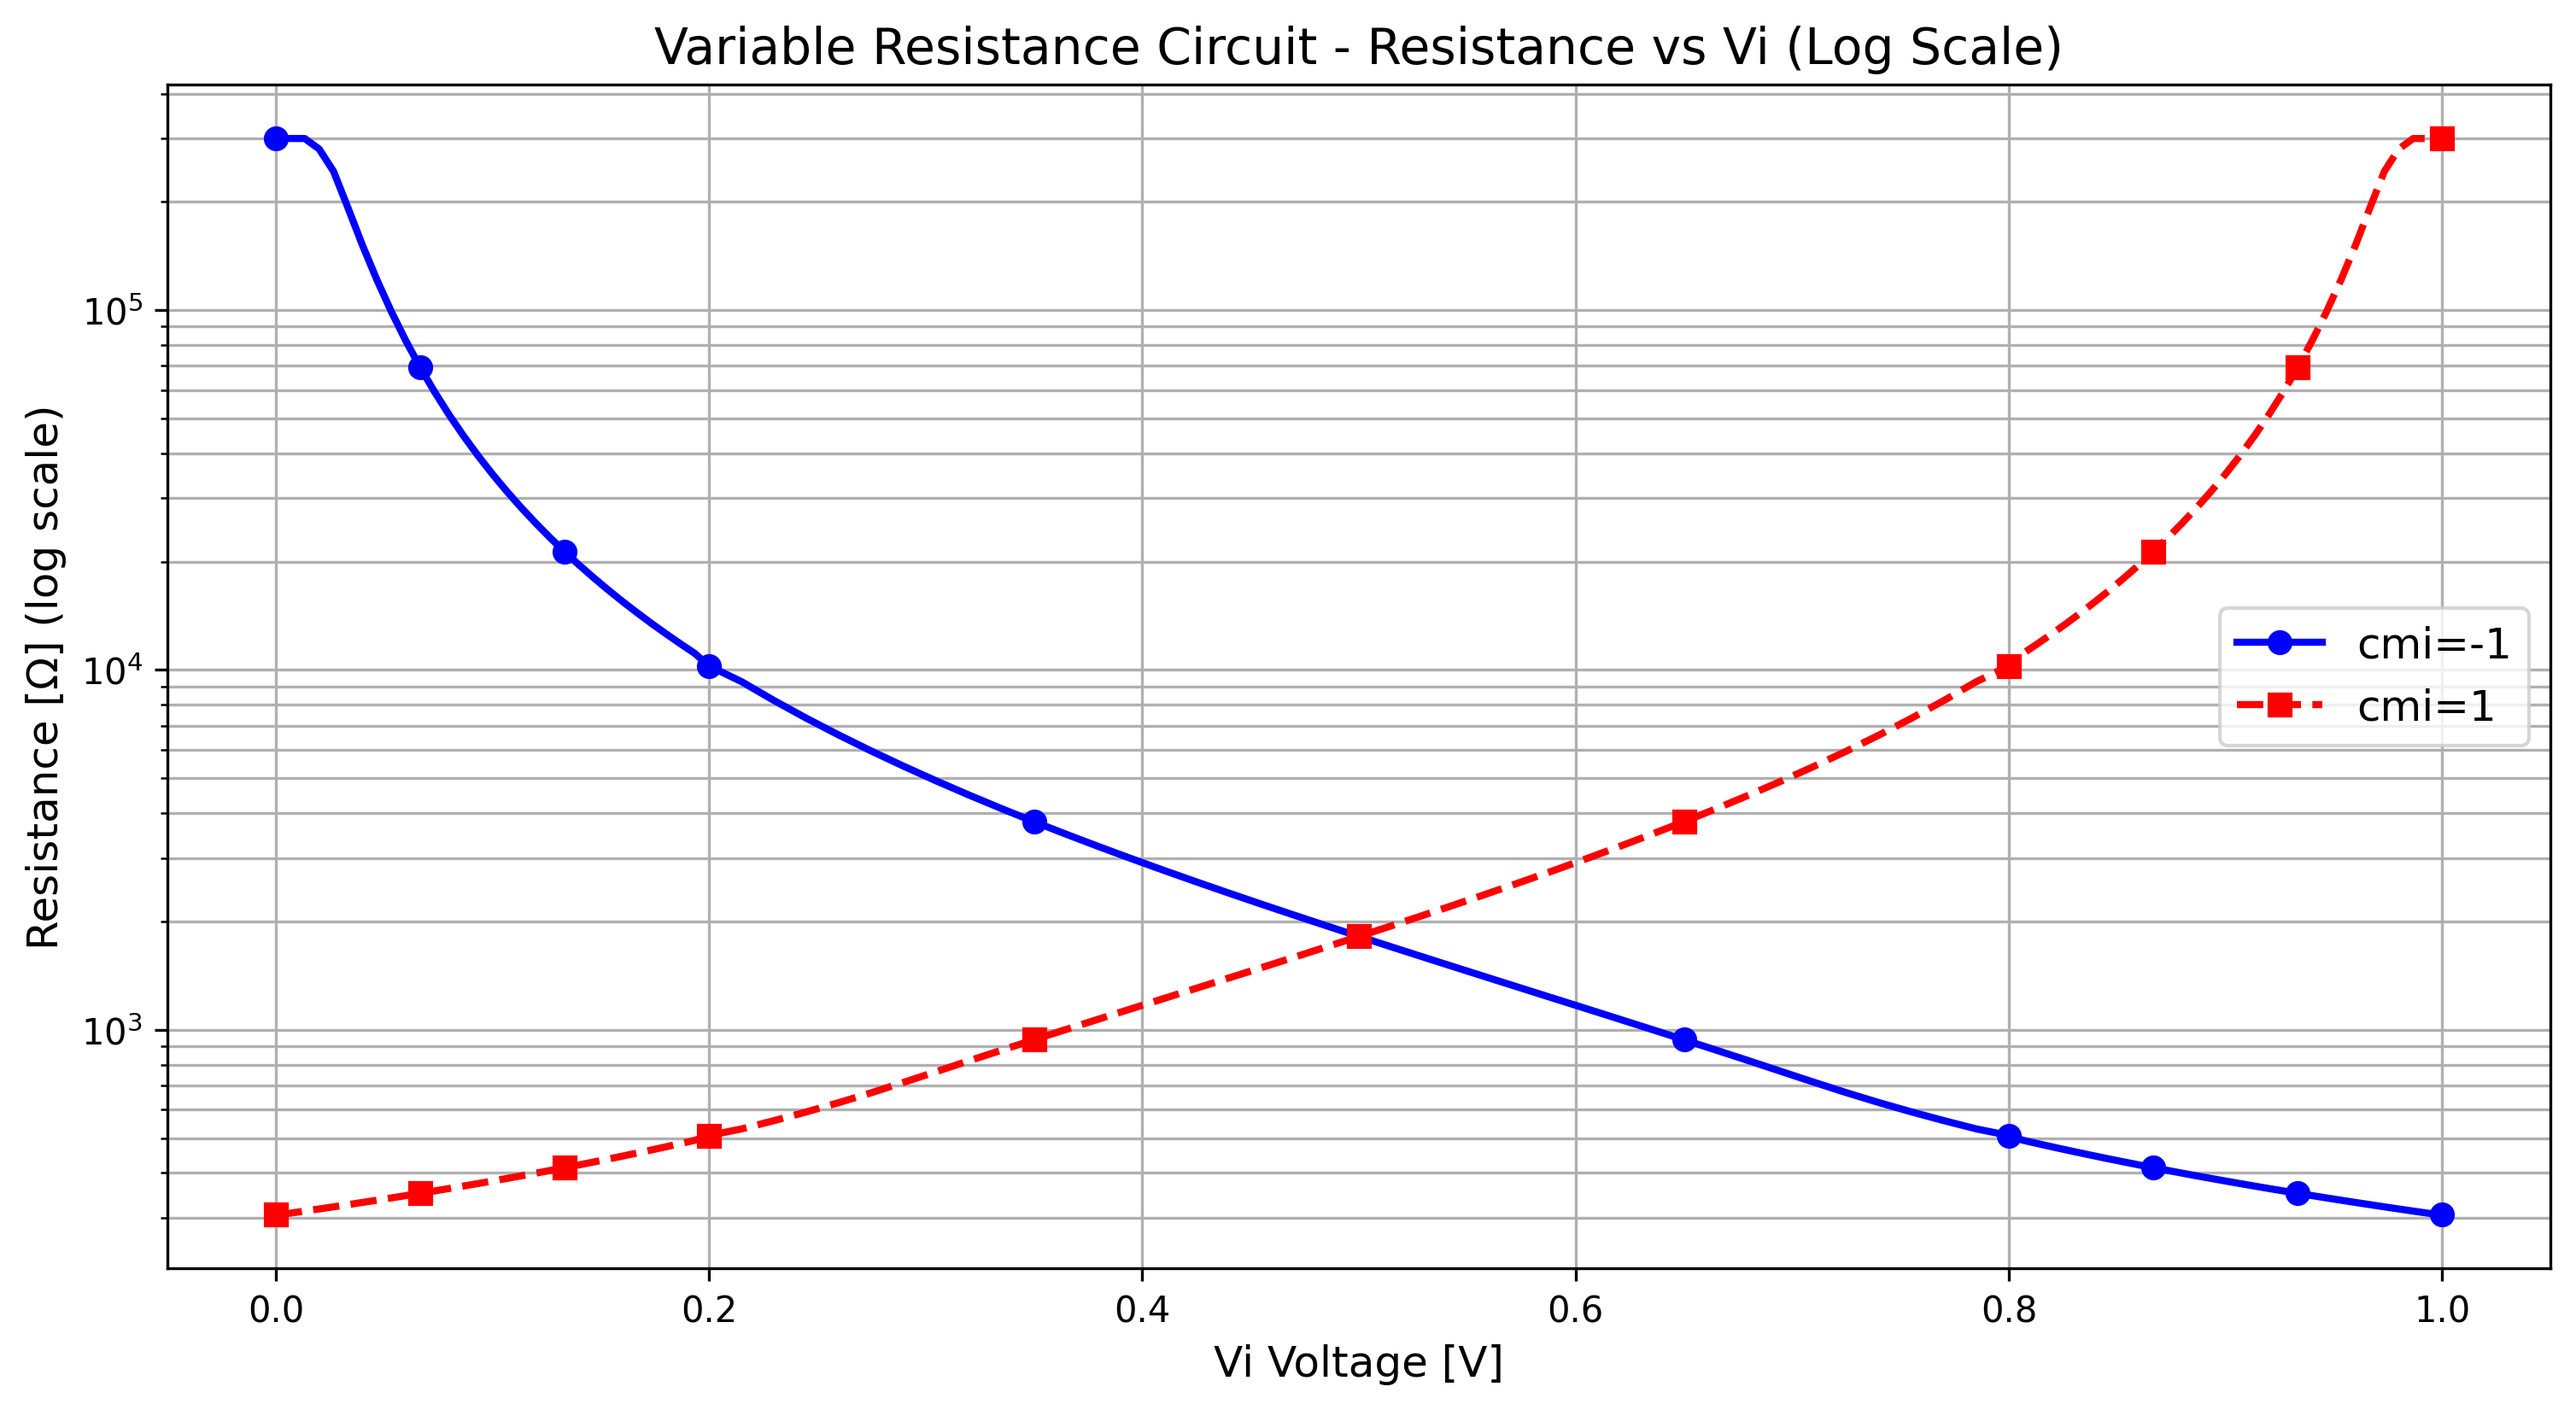
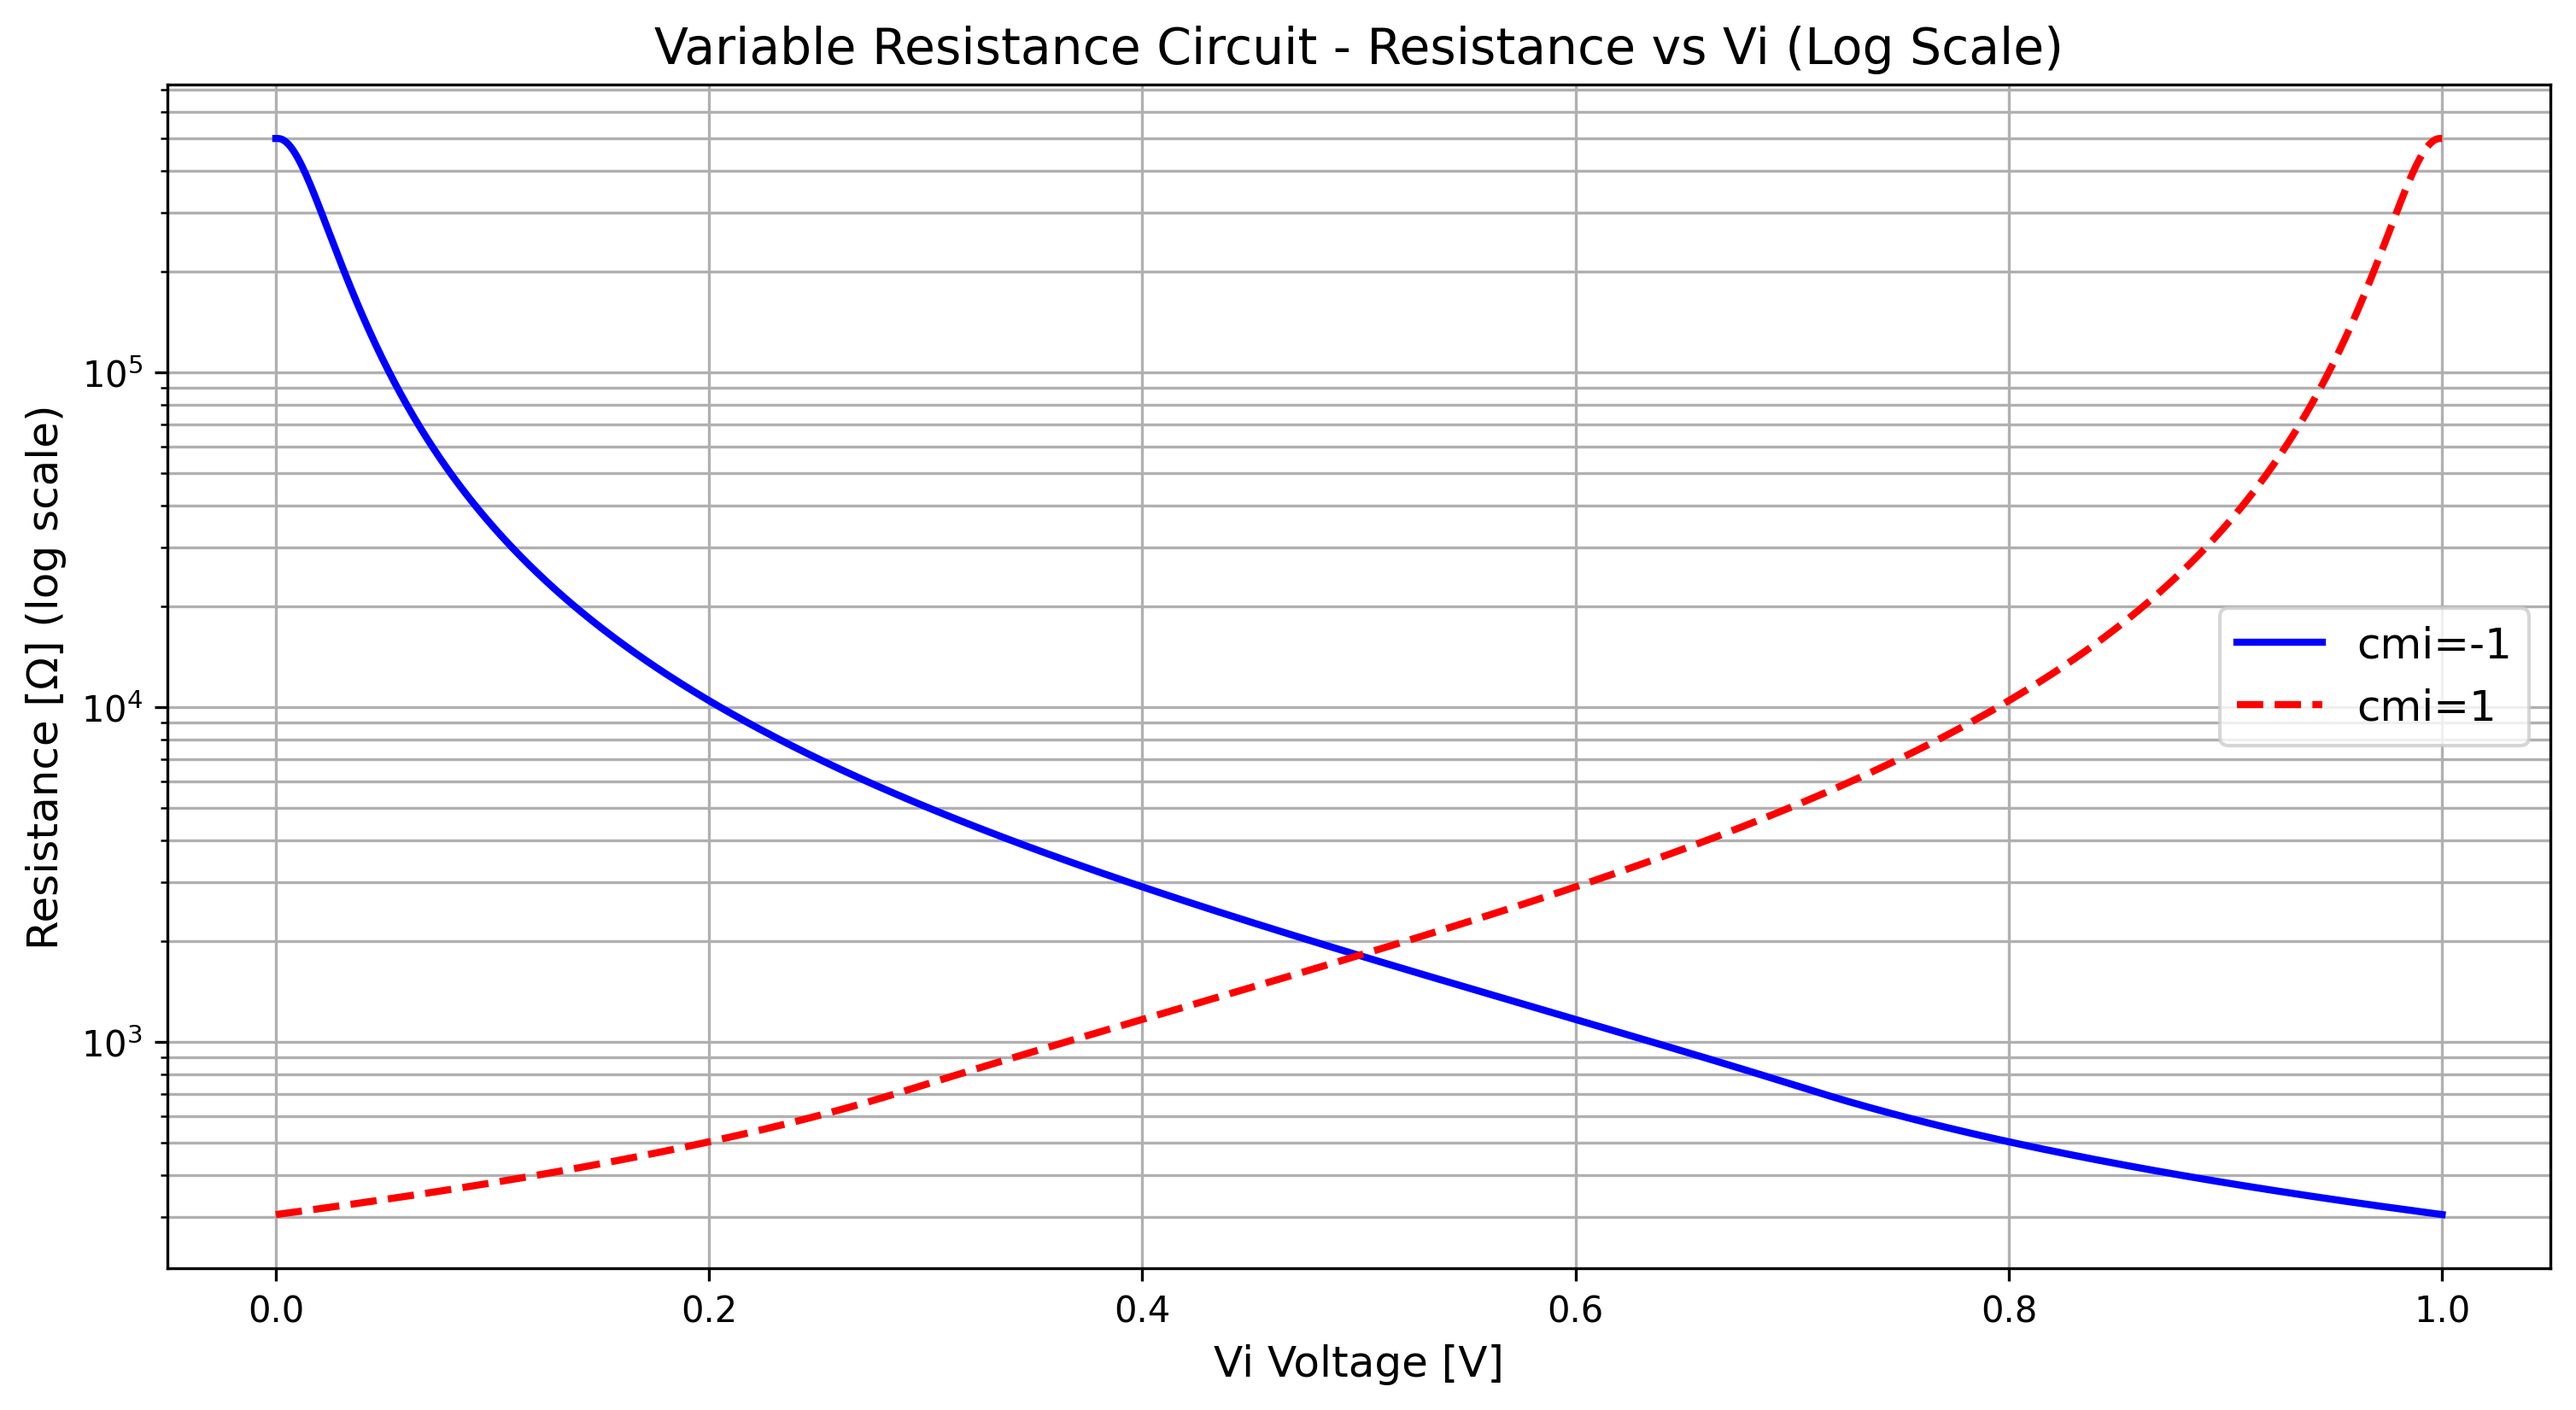
Proper names

Changed region(s): [[0.0312, 0.0618, 0.9973, 0.8649]]

diff --git a/src/variable_resistance.py b/src/variable_resistance.py
@@ -1,12 +1,12 @@
 import PySpice.Logging.Logging as Logging
-from PySpice.Spice.Netlist import Circuit, SubCircuitFactory
+from PySpice.Spice.Netlist import Circuit, SubCircuit
 from PySpice.Unit import u_V, u_Ohm
 import matplotlib.pyplot as plt
 import numpy as np
 
 from transmission_gate import TransmissionGate
 
-class VariableResistance(SubCircuitFactory):
+class VariableResistance(SubCircuit):
     """
     A variable resistance circuit using five transmission gates.
     
@@ -28,11 +28,10 @@ class VariableResistance(SubCircuitFactory):
     - vdd: Power supply
     - gnd: Ground
     """
-    NAME = 'variable_resistance'
     NODES = ('vi', 'vin', 'vout', 'vdd', 'gnd')
     
     def __init__(self, cmi):
-        super().__init__()
+        super().__init__(f'VariableResistance_{cmi}', *self.NODES)
         
         # Add the transmission gate subcircuit
         transmission_gate = TransmissionGate()
@@ -49,7 +48,7 @@ class VariableResistance(SubCircuitFactory):
         else:
             raise ValueError("cmi must be 1 or -1 for now")
 
-        self.X('tg', transmission_gate.NAME, 'vin', 'vout', Vn, Vp, 'vdd', 'gnd')
+        self.X('tg', transmission_gate.name, 'vin', 'vout', Vn, Vp, 'vdd', 'gnd')
 
 
 def sweep_vin_test():
@@ -69,7 +68,6 @@ def sweep_vin_test():
     # Define line styles, colors, and markers for better visibility
     line_styles = ['-', '--', '-.', ':']
     colors = ['blue', 'red', 'green', 'purple']
-    markers = ['o', 's', '^', 'x']
     
     # Plot the results
     plt.figure(figsize=(15, 10))
@@ -88,7 +86,7 @@ def sweep_vin_test():
         circuit.subcircuit(variable_resistance)
         
         # Instantiate the variable resistance
-        circuit.X('var_res', variable_resistance.NAME, 'vi', 'vin', 'vout', 'vdd', circuit.gnd)
+        circuit.X('var_res', variable_resistance.name, 'vi', 'vin', 'vout', 'vdd', circuit.gnd)
         
         # Add a load resistor to measure current
         R_load = 1e3  # 1kΩ
@@ -130,8 +128,7 @@ def sweep_vin_test():
         plt.subplot(2, 1, 1)
         plt.plot(input_voltages, output_voltages, 
                  linestyle=line_styles[i], 
-                 color=colors[i], 
-                 marker=markers[i], 
+                 color=colors[i],
                  markevery=10,  # Place marker every 10 points to avoid overcrowding
                  linewidth=2,
                  label=case['desc'])
@@ -140,8 +137,7 @@ def sweep_vin_test():
         plt.subplot(2, 1, 2)
         plt.plot(input_voltages, resistances, 
                  linestyle=line_styles[i], 
-                 color=colors[i], 
-                 marker=markers[i], 
+                 color=colors[i],
                  markevery=10,
                  linewidth=2,
                  label=f"{case['desc']} (Avg: {median_resistance:.2f}Ω)")
@@ -180,21 +176,14 @@ def sweep_vi_test():
     # Store results for Q=0 and Q=1
     cmi_values = [-1, 1]
     
-    # Create non-uniform sweep with more points in the transition regions
-    # Add more points near the edges (0-0.2 and 0.8-1.0) for better resolution
-    vi_edges = np.linspace(0, 0.2, 31)  # More points in 0-0.2 range
-    vi_middle = np.linspace(0.2, 0.8, 41)  # Regular points in the middle
-    vi_edges2 = np.linspace(0.8, 1.0, 31)  # More points in 0.8-1.0 range
-    vi_sweep = np.unique(np.concatenate([vi_edges, vi_middle, vi_edges2]))
+    # Create uniform sweep with more points in the transition regions
+    vi_sweep = np.linspace(0, 1, 1001)
     
     resistances = {cmi: np.zeros(len(vi_sweep)) for cmi in cmi_values}
     vout_values = {cmi: np.zeros(len(vi_sweep)) for cmi in cmi_values}
     
     # Fixed input voltage for resistance calculation
     vin_value = 0.5
-    
-    # Maximum resistance to cap the values (to avoid extreme peaks)
-    max_resistance = 0.3e6  # 300kΩ cap
     
     # Test for each Q value
     for cmi in cmi_values:
@@ -210,7 +199,7 @@ def sweep_vi_test():
         circuit.subcircuit(variable_resistance)
         
         # Instantiate the variable resistance
-        circuit.X('var_res', variable_resistance.NAME, 'vi', 'vin', 'vout', 'vdd', circuit.gnd)
+        circuit.X('var_res', variable_resistance.name, 'vi', 'vin', 'vout', 'vdd', circuit.gnd)
         
         # Add a load resistor to measure current
         R_load = 1e3  # 1kΩ
@@ -241,26 +230,9 @@ def sweep_vi_test():
             voltage_drop = vin_value - vout
             current = vout / R_load
             
-            # Calculate resistance (avoid division by zero)
-            epsilon = 1e-10
-            if current > epsilon:
-                res = voltage_drop / current
-                # Cap the resistance to avoid extreme values
-                resistances[cmi][i] = min(res, max_resistance)
-            else:
-                resistances[cmi][i] = max_resistance  # Cap very high resistance
-    
-    # Smooth the resistance curves to make transitions less abrupt
-    # Apply a simple moving average filter
-    window_size = 3
-    for cmi in cmi_values:
-        # Pad the array for the moving average
-        padded = np.pad(resistances[cmi], (window_size//2, window_size//2), mode='edge')
-        smoothed = np.zeros_like(resistances[cmi])
-        for i in range(len(resistances[cmi])):
-            # Calculate moving average
-            smoothed[i] = np.mean(padded[i:i+window_size])
-        resistances[cmi] = smoothed
+            # Calculate resistance
+            res = voltage_drop / current
+            resistances[cmi][i] = res
     
     # Plot the results
     plt.figure(figsize=(15, 10))
@@ -268,7 +240,6 @@ def sweep_vi_test():
     # Define line styles for better visibility
     line_styles = ['-', '--']
     colors = ['blue', 'red']
-    markers = ['o', 's']
 
     print(f"Resistance (cmi=1, vi=0) = {resistances[1][0]/1000:.1f}kΩ")
     print(f"Resistance (cmi=1, vi=Vdd) = {resistances[1][-1]/1000:.1f}kΩ")
@@ -280,8 +251,7 @@ def sweep_vi_test():
     for i, cmi in enumerate(cmi_values):
         plt.plot(vi_sweep, resistances[cmi], 
                  linestyle=line_styles[i], 
-                 color=colors[i], 
-                 marker=markers[i], 
+                 color=colors[i],  
                  markevery=10,
                  linewidth=2,
                  label=f'cmi={cmi}')
@@ -309,8 +279,7 @@ def sweep_vi_test():
     for i, cmi in enumerate(cmi_values):
         plt.plot(vi_sweep, vout_values[cmi], 
                  linestyle=line_styles[i], 
-                 color=colors[i], 
-                 marker=markers[i], 
+                 color=colors[i],
                  markevery=10,
                  linewidth=2,
                  label=f'cmi={cmi}')
@@ -336,8 +305,7 @@ def sweep_vi_test():
     for i, cmi in enumerate(cmi_values):
         plt.semilogy(vi_sweep, resistances[cmi], 
                      linestyle=line_styles[i], 
-                     color=colors[i], 
-                     marker=markers[i], 
+                     color=colors[i],
                      markevery=10,
                      linewidth=2,
                      label=f'cmi={cmi}')

diff --git a/src/branch_voltage.py b/src/branch_voltage.py
@@ -58,7 +58,7 @@ class BranchVoltage(SubCircuit):
         self.X('mux3', mux3.name, 'vi3', 'mux3_out', 'vdd', 'gnd')
         
         # Instantiate the NOR gate
-        self.X('nor1', nor_gate.NAME, 'mux2_out', 'mux3_out', 'vmi', 'vdd', 'gnd')
+        self.X('nor1', nor_gate.name, 'mux2_out', 'mux3_out', 'vmi', 'vdd', 'gnd')
 
 
 # Helper function to calculate the theoretical output based on the mathematical model
